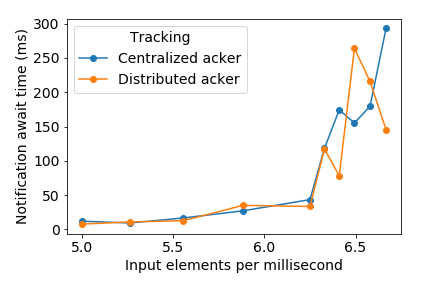
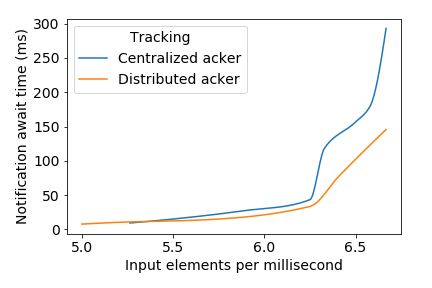
Pictures redesign

diff --git a/2019/acker/fs-acker-experiments.tex b/2019/acker/fs-acker-experiments.tex
@@ -21,17 +21,17 @@ Network traffic was measured in number of separate service messages sent over th
 % https://gist.github.com/faucct/032aaf6240db361d30a184b1d7bf3c8e
 \begin{figure*}[t!]
     \begin{subfigure}[b]{0.32\textwidth}
-            \includegraphics[width=0.99\textwidth]{pics/traffic_by_graph_size.png}
+            \includegraphics[width=0.99\textwidth]{pics/traffic_by_graph_size_bars.png}
             \caption{Traffic by graph size}
     \end{subfigure}
     \hspace{5mm}
     \begin{subfigure}[b]{0.32\textwidth}
-            \includegraphics[width=0.99\textwidth]{pics/traffic_by_number_of_machines.png}
+            \includegraphics[width=0.99\textwidth]{pics/traffic_by_number_of_machines_bars.png}
             \caption{Traffic by number of virtual machines}
     \end{subfigure}
     \hspace{5mm}
     \begin{subfigure}[b]{0.32\textwidth}
-            \includegraphics[width=0.99\textwidth]{pics/traffic_by_tracking_frequency.png}
+            \includegraphics[width=0.99\textwidth]{pics/traffic_by_tracking_frequency_bars.png}
             \caption{Traffic by tracking frequency}
 	\end{subfigure}
     \caption{Service traffic of various trackings}
@@ -43,7 +43,7 @@ In those experiments we compare maximum throughput of system without tracking to
 
 \begin{figure}[htbp]
   \centering
-  \includegraphics[width=0.50\textwidth]{pics/throughput_overhead.png}
+  \includegraphics[width=0.50\textwidth]{pics/throughput_overhead_50.png}
   \caption{Throughput overhead}
 \end{figure}
 
@@ -56,17 +56,17 @@ Notification latency was measured as a time between moments of Bench Stand recei
 % https://gist.github.com/faucct/032aaf6240db361d30a184b1d7bf3c8e
 \begin{figure*}[t!]
     \begin{subfigure}[b]{0.32\textwidth}
-            \includegraphics[width=0.99\textwidth]{pics/notification_await_time_by_graph_size.png}
+            \includegraphics[width=0.99\textwidth]{pics/notification_await_time_by_graph_size_bars.png}
             \caption{Notification latency by graph size}
     \end{subfigure}
     \hspace{5mm}
     \begin{subfigure}[b]{0.32\textwidth}
-            \includegraphics[width=0.99\textwidth]{pics/notification_await_time_by_number_of_machines.png}
+            \includegraphics[width=0.99\textwidth]{pics/notification_await_time_by_number_of_machines_bars.png}
             \caption{Notification latency by number of virtual machines}
     \end{subfigure}
     \hspace{5mm}
     \begin{subfigure}[b]{0.32\textwidth}
-            \includegraphics[width=0.99\textwidth]{pics/notification_await_time_by_tracking_frequency.png}
+            \includegraphics[width=0.99\textwidth]{pics/notification_await_time_by_tracking_frequency_bars.png}
             \caption{Notification latency by tracking frequency}
 	\end{subfigure}
     \caption{Notification latency of various trackings}
@@ -105,17 +105,17 @@ In those experiments we are comparing granular tracking using \tracker\ and mark
 % https://gist.github.com/faucct/6097d9d08197cb979b71721b16f8b6a3/
 \begin{figure}[htbp]
   \centering
-  \includegraphics[width=0.50\textwidth]{pics/buffering_average_duration.png}
+  \includegraphics[width=0.50\textwidth]{pics/buffering_average_duration_bars.png}
   \caption{Average buffering duration}
 \end{figure}
 \begin{figure}[htbp]
   \centering
-  \includegraphics[width=0.50\textwidth]{pics/buffering_count.png}
+  \includegraphics[width=0.50\textwidth]{pics/buffering_count_bars.png}
   \caption{Buffered elements count}
 \end{figure}
 \begin{figure}[htbp]
   \centering
-  \includegraphics[width=0.50\textwidth]{pics/buffering_sum_duration.png}
+  \includegraphics[width=0.50\textwidth]{pics/buffering_sum_duration_bars.png}
   \caption{Total buffering duration}
 \end{figure}
 
